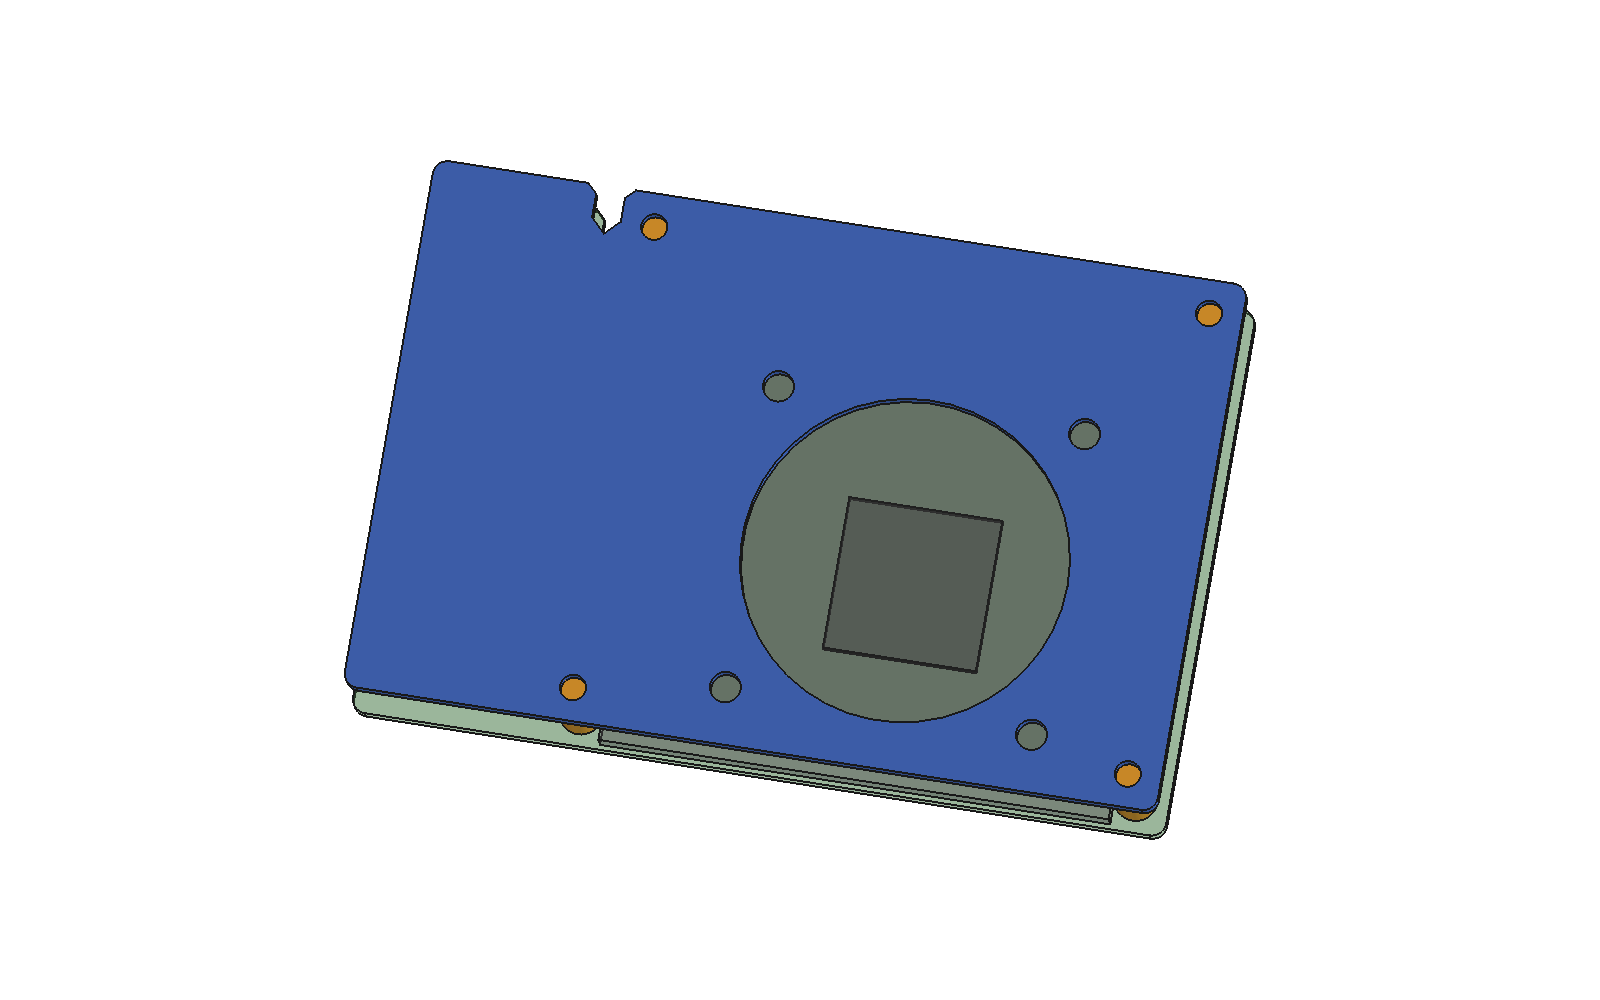
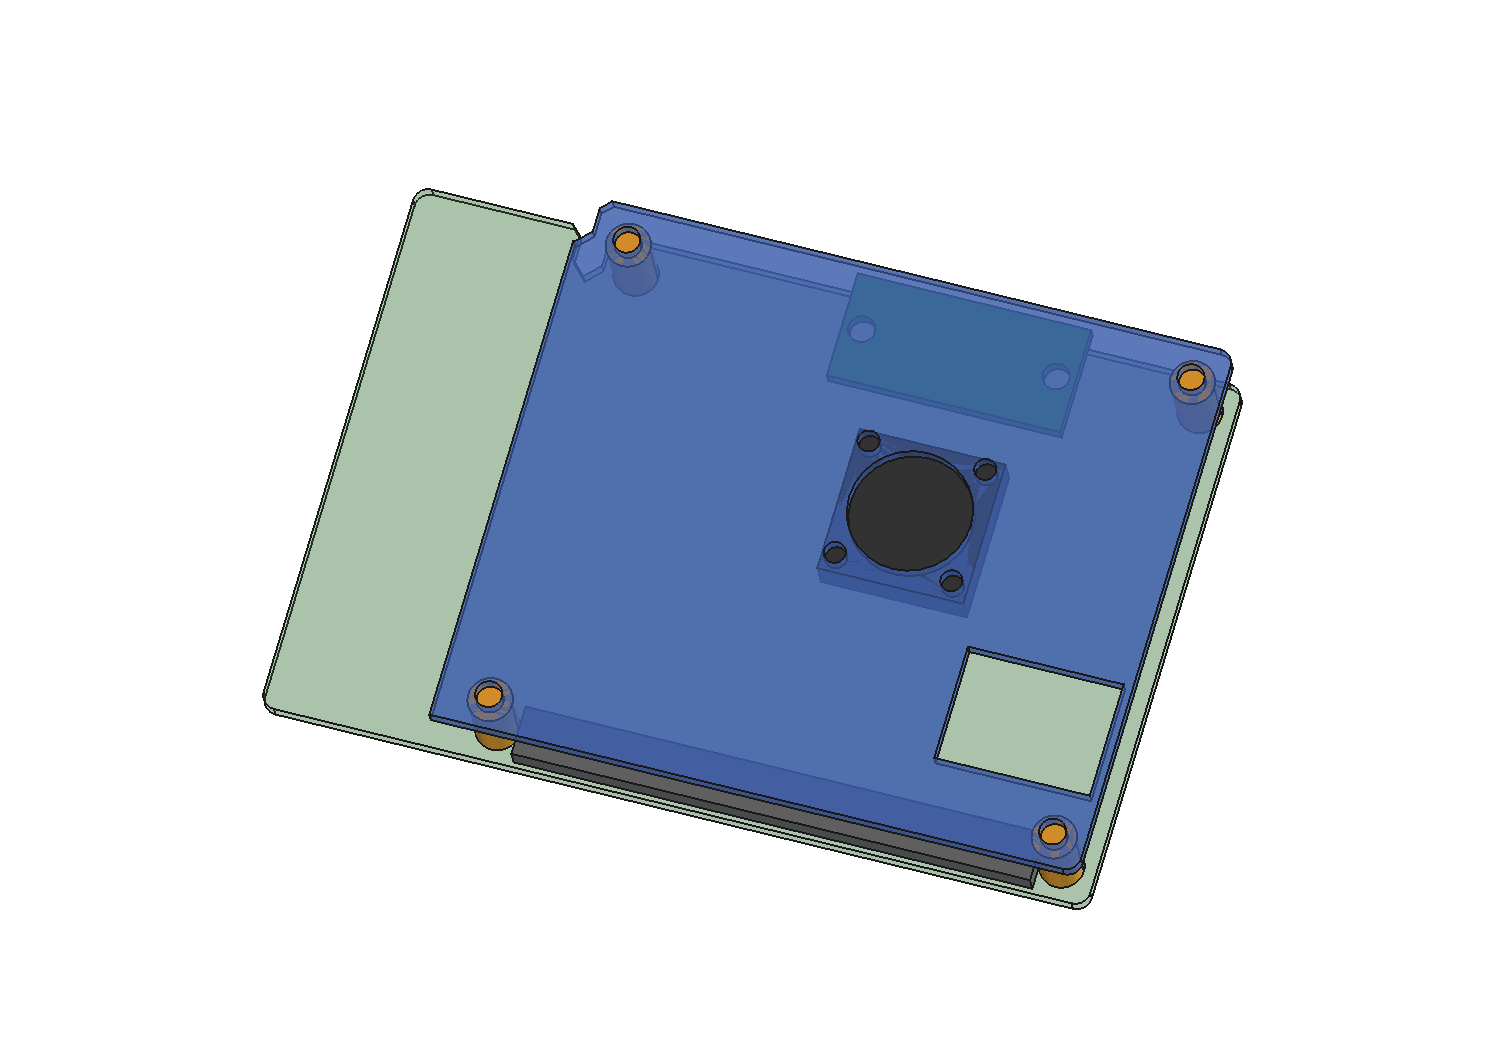
mechanical: fit the per-parameter plate/adapter against the official LubanCat-3 STEP
GAP=8.5, 15x15x4 fan at the measured RK3576 centre (58.5,32.2), plate left edge at the Ethernet (x=18.4), placeholder power keep-out and B2B adapter. Boolean clash check against all 577 STEP parts: 0 collisions.

Changed region(s): [[0.1533, 0.155, 0.828, 0.868]]

diff --git a/mechanical/lbc3_hat/model.py b/mechanical/lbc3_hat/model.py
@@ -1,21 +1,26 @@
 """Parametric mechanical model for the LubanCat-3 40-pin add-on ("top plate").
 
-Coordinate system (board frame, millimetres):
-  origin  = LBC3 PCB bottom-left corner, viewed from the TOP (unit is the DXF
-            board frame; x grows right, y grows "up" the board away from the
-            40-pin header edge)
-  z = 0   = LBC3 PCB TOP surface (components live above); the PCB occupies
-            z = -BOARD_T .. 0.
+Two coordinate frames are used:
 
-Ground truth for BOARD_L/W, corner radius, mount holes, the 40-pin header span
-and the SoC position comes from the vendor files:
-  * LubanCat3_DXF_BOT.dxf          (BG_OUTLINE + PIN_BOTTOM layers)
-  * LubanCat3_PCB尺寸图_.pdf        (R1.5X4, 85 x 56)
+* **board frame** (what you edit below), millimetres:
+    origin = LBC3 PCB bottom-left corner viewed from the TOP
+    x = along the long edge (0 .. 85), y = away from the 40-pin edge (0 .. 56)
+    z = height above the PCB top surface (PCB occupies z = -1.6 .. 0)
 
-Every value marked  # TBC  is a placeholder that still needs a measurement from
-the real board / schematic before manufacturing.
+* **STEP frame** (the vendor `Lubancat3_3D_Model.STEP`), millimetres:
+    the board plane is X-Z, the board normal is Y
+    PCB top surface is y = 0, bottom y = -1.6
+    mapping:  step = (board_x, board_z, -board_y)
 
-Run inside FreeCAD (GUI or freecadcmd):  exec(open(__file__).read())
+Ground truth from the vendor files (`LubanCat3(EBF410513V2R0_20260521)/`):
+  DXF结构图  -> outline 85x56, R1.5x4, 40-pin span x 28.52..76.78, rows y 1.78/4.32,
+                mount holes Dia2.6 at (23.5,3.5)(23.5,52.5)(81.5,3.5)(81.5,52.5)
+  3D模型     -> RK3576 centre board (58.5, 32.2); 40-pin pin tips at +8.54 above PCB
+                Ethernet HR911130A occupies board x -3.0 .. 18.4
+
+Values marked  # TBC  still need a decision.
+
+Run inside FreeCAD:  exec(open(__file__).read()); build()
 """
 
 import FreeCAD as App
@@ -23,56 +28,49 @@ import Part
 from FreeCAD import Vector
 
 # --------------------------------------------------------------------------
-# Parameters (mm) -- edit here, the model is regenerated from these.
+# Parameters (mm), board frame
 # --------------------------------------------------------------------------
-BOARD_L = 85.0          # board length  (X)  [vendor: 85]
-BOARD_W = 56.0          # board width   (Y)  [vendor: 56]
-BOARD_T = 1.6           # PCB thickness      [TBC: verify, 1.6 typical]
-CORNER_R = 1.5          # board corner fillet [vendor: R1.5X4]
+BOARD_L, BOARD_W, BOARD_T, CORNER_R = 85.0, 56.0, 1.6, 1.5
 
-# 40-pin male header on the LBC3 (from DXF PIN_BOTTOM grid)
-HDR_X0 = 28.52          # x of column 0 (pin 39/40 side)
-HDR_PITCH = 2.54
-HDR_COLS = 20
+HDR_X0, HDR_PITCH, HDR_COLS = 28.52, 2.54, 20
 HDR_ROWS_Y = (1.78, 4.32)
-HDR_BODY_PAD = 1.27     # body plastic overhangs 1.27 beyond the end pins
+HDR_BODY_PAD = 1.27
 
-# Board mount holes (DXF r=1.3 -> Dia 2.6 -> M2.5 clearance)
 MOUNT_HOLES = [(23.5, 3.5), (81.5, 3.5), (23.5, 52.5), (81.5, 52.5)]
 MOUNT_HOLE_D = 2.6
 
-# Top plate
 PLATE_T = 1.6
-GAP = 11.0              # LBC3 top surface -> plate bottom. # TBC (= 40-pin
-                        #   mated height; must also fit the fan below)
-M25_CLEAR_D = 2.7       # M2.5 clearance in the plate
-M25_HEAD_D = 4.7        # M2.5 socket/lens head recess  # TBC
+GAP = 8.5                 # PCB top -> plate bottom (= 40-pin mated height)
+M25_CLEAR_D = 2.7
 
-# Fan (mounted to the underside of the plate, above the SoC)   -- all TBC
-FAN_U = 40.0            # fan size (square)
-FAN_THK = 10.0
-FAN_SCREW_SPAN = 32.0   # hole centre spacing
-FAN_SCREW_D = 3.2       # M3 screws into the fan
-FAN_OPEN_D = 34.0       # opening in the plate
-FAN_CX = 55.0           # centre  # TBC (SoC position)
-FAN_CY = 22.0
+# Plate footprint: cut away the left edge so the Ethernet stays reachable.
+PLATE_X_MIN = 18.4        # right edge of the HR911130A jack
+# Power-input (24V -> 5V) keep-out on the right.   # TBC: real module footprint
+POWER_OPEN = (68.0, 8.0, 84.0, 20.0)
 
-# Camera B2B -> FPC30 adapter board that we want to pin down  -- all TBC
-B2B_CX, B2B_CY = 38.0, 51.0
-B2B_L, B2B_W, B2B_H = 20.0, 8.0, 3.0
+# Fan: 15 x 15 x 4 mm, mounted under the plate above the SoC.
+FAN_U, FAN_THK = 15.0, 4.0
+FAN_SCREW_SPAN, FAN_SCREW_D = 12.0, 2.2
+FAN_OPEN_D = 12.5
+FAN_CX, FAN_CY = 58.5, 32.2      # RK3576 centre, measured from the STEP
 
-# Notch in the LBC3 top edge (from DXF BG_OUTLINE), as a closed polygon
+# Camera B2B -> FPC30 adapter board we want to pin down.   # TBC: verify location
+ADAPTER_L, ADAPTER_W, ADAPTER_T = 24.0, 11.0, 1.6
+ADAPTER_CX, ADAPTER_CY = 57.0, 52.0
+ADAPTER_HOLE_SPAN_X = 20.0
+ADAPTER_HOLE_D = 2.7             # M2.5 screws
+
 NOTCH = [(16.0, 56.0), (17.0, 55.0), (17.0, 52.5), (18.5, 51.0),
          (20.0, 52.5), (20.0, 55.0), (21.0, 56.0), (21.0, 57.5), (16.0, 57.5)]
 
-COL_BOARD = (0.20, 0.45, 0.20)
-COL_PLATE = (0.20, 0.35, 0.70)
-COL_STAND = (0.85, 0.55, 0.10)
-COL_HDR = (0.35, 0.35, 0.35)
-COL_FAN = (0.15, 0.15, 0.15)
-COL_B2B = (0.10, 0.60, 0.10)
+COL_BOARD, COL_PLATE = (0.20, 0.45, 0.20), (0.20, 0.35, 0.70)
+COL_STAND, COL_HDR = (0.85, 0.55, 0.10), (0.35, 0.35, 0.35)
+COL_FAN, COL_ADAPTER = (0.15, 0.15, 0.15), (0.10, 0.60, 0.10)
 
 
+# --------------------------------------------------------------------------
+# helpers (board frame)
+# --------------------------------------------------------------------------
 def rounded_box(length, width, height, z0):
     s = Part.makeBox(length, width, height, Vector(0, 0, z0))
     vert = [e for e in s.Edges
@@ -81,70 +79,103 @@ def rounded_box(length, width, height, z0):
     return s.makeFillet(CORNER_R, vert)
 
 
+def box_between(x0, y0, z0, x1, y1, z1):
+    return Part.makeBox(x1 - x0, y1 - y0, z1 - z0, Vector(x0, y0, z0))
+
+
 def poly_prism(points, z0, height):
     wire = Part.makePolygon([Vector(x, y, z0) for x, y in points])
     return Part.Face(wire).extrude(Vector(0, 0, height))
 
 
-def show(shape, name, color):
-    obj = Part.show(shape, name)
+def cyl(x, y, z0, d, h):
+    return Part.makeCylinder(d / 2, h, Vector(x, y, z0))
+
+
+# --------------------------------------------------------------------------
+# solids (board frame)
+# --------------------------------------------------------------------------
+def build_plate():
+    s = rounded_box(BOARD_L, BOARD_W, PLATE_T, GAP)
+    s = s.cut(box_between(-4, -4, GAP - 2, PLATE_X_MIN, 60, GAP + PLATE_T + 2))
+    s = s.cut(poly_prism(NOTCH, GAP - 1, PLATE_T + 2))
+    for x, y in MOUNT_HOLES:
+        s = s.cut(cyl(x, y, GAP - 2, M25_CLEAR_D, PLATE_T + 4))
+    s = s.cut(cyl(FAN_CX, FAN_CY, GAP - 2, FAN_OPEN_D, PLATE_T + 4))
+    for sx in (-1, 1):
+        for sy in (-1, 1):
+            s = s.cut(cyl(FAN_CX + sx * FAN_SCREW_SPAN / 2,
+                          FAN_CY + sy * FAN_SCREW_SPAN / 2,
+                          GAP - 2, FAN_SCREW_D, PLATE_T + 4))
+    x0, y0, x1, y1 = POWER_OPEN
+    s = s.cut(box_between(x0, y0, GAP - 2, x1, y1, GAP + PLATE_T + 2))
+    return s
+
+
+def build_adapter():
+    s = Part.makeBox(ADAPTER_L, ADAPTER_W, ADAPTER_T,
+                     Vector(ADAPTER_CX - ADAPTER_L / 2, ADAPTER_CY - ADAPTER_W / 2, 0))
+    for sx in (-1, 1):
+        s = s.cut(cyl(ADAPTER_CX + sx * ADAPTER_HOLE_SPAN_X / 2, ADAPTER_CY, -1,
+                      ADAPTER_HOLE_D, ADAPTER_T + 2))
+    return s
+
+
+def build_standoffs():
+    return [cyl(x, y, 0, M25_CLEAR_D + 1.8, GAP) for x, y in MOUNT_HOLES]
+
+
+# --------------------------------------------------------------------------
+# frame conversion
+# --------------------------------------------------------------------------
+def to_step(shape):
+    """(board_x, board_y, board_z) -> (board_x, board_z, -board_y)."""
+    m = App.Matrix()
+    m.A11, m.A12, m.A13 = 1, 0, 0
+    m.A21, m.A22, m.A23 = 0, 0, 1
+    m.A31, m.A32, m.A33 = 0, -1, 0
+    return shape.transformGeometry(m)
+
+
+def show(shape, name, color, doc=None, transparency=0):
+    doc = doc or App.ActiveDocument
+    obj = doc.addObject("Part::Feature", name)
+    obj.Shape = shape
     obj.ViewObject.ShapeColor = color
-    obj.ViewObject.Transparency = 70 if name.startswith("REF") else 0
+    obj.ViewObject.Transparency = transparency
     return obj
 
 
-def build():
-    doc = App.newDocument("lbc3_hat")
-
-    # ---- reference: LBC3 board -------------------------------------------
+def build(doc_name="lbc3_hat"):
+    """Standalone board-frame document (reference + plate + adapter)."""
+    doc = App.newDocument(doc_name)
     board = rounded_box(BOARD_L, BOARD_W, BOARD_T, -BOARD_T)
     board = board.cut(poly_prism(NOTCH, -BOARD_T - 1, BOARD_T + 2))
     for x, y in MOUNT_HOLES:
-        board = board.cut(Part.makeCylinder(MOUNT_HOLE_D / 2, BOARD_T + 4,
-                                            Vector(x, y, -BOARD_T - 2)))
-    show(board, "REF_LBC3_board", COL_BOARD)
+        board = board.cut(cyl(x, y, -BOARD_T - 2, MOUNT_HOLE_D, BOARD_T + 4))
+    show(board, "REF_lbc3_board", COL_BOARD, doc, 75)
 
-    # ---- reference: 40-pin male header on the LBC3 -----------------------
-    body = Part.makeBox(HDR_COLS * HDR_PITCH + 2 * HDR_BODY_PAD, 5.08, 2.5,
-                        Vector(HDR_X0 - HDR_PITCH / 2 - HDR_BODY_PAD,
-                               HDR_ROWS_Y[0] - 1.27, 0.0))
-    show(body, "REF_header40_male", COL_HDR)
-
-    # ---- reference: SoC + fan envelope -----------------------------------
-    soc = Part.makeBox(16, 16, 1.0, Vector(FAN_CX - 8, FAN_CY - 8, 0.0))
-    show(soc, "REF_soc", COL_HDR)
+    hdr = Part.makeBox(HDR_COLS * HDR_PITCH + 2 * HDR_BODY_PAD, 5.08, 2.5,
+                       Vector(HDR_X0 - HDR_PITCH / 2 - HDR_BODY_PAD, HDR_ROWS_Y[0] - 1.27, 0))
+    show(hdr, "REF_header40_male", COL_HDR, doc)
     fan = Part.makeBox(FAN_U, FAN_U, FAN_THK,
-                       Vector(FAN_CX - FAN_U / 2, FAN_CY - FAN_U / 2,
-                              GAP - FAN_THK))
-    show(fan, "REF_fan", COL_FAN)
+                       Vector(FAN_CX - FAN_U / 2, FAN_CY - FAN_U / 2, GAP - FAN_THK))
+    show(fan, "REF_fan15", COL_FAN, doc)
 
-    # ---- reference: camera B2B -> FPC30 adapter --------------------------
-    b2b = Part.makeBox(B2B_L, B2B_W, B2B_H,
-                       Vector(B2B_CX - B2B_L / 2, B2B_CY - B2B_W / 2, 0.0))
-    show(b2b, "REF_b2b_adapter", COL_B2B)
+    show(build_plate(), "TOP_plate", COL_PLATE, doc, 40)
+    show(build_adapter(), "B2B_adapter", COL_ADAPTER, doc)
+    for i, st in enumerate(build_standoffs()):
+        show(st, "STANDOFF_%d" % (i + 1), COL_STAND, doc)
+    doc.recompute()
+    return doc
 
-    # ---- top plate -------------------------------------------------------
-    plate = rounded_box(BOARD_L, BOARD_W, PLATE_T, GAP)
-    plate = plate.cut(poly_prism(NOTCH, GAP - 1, PLATE_T + 2))
-    for x, y in MOUNT_HOLES:                      # M2.5 fixing holes
-        plate = plate.cut(Part.makeCylinder(M25_CLEAR_D / 2, PLATE_T + 4,
-                                            Vector(x, y, GAP - 2)))
-    # fan opening + fan screws
-    plate = plate.cut(Part.makeCylinder(FAN_OPEN_D / 2, PLATE_T + 4,
-                                        Vector(FAN_CX, FAN_CY, GAP - 2)))
-    for sx in (-1, 1):
-        for sy in (-1, 1):
-            plate = plate.cut(Part.makeCylinder(
-                FAN_SCREW_D / 2, PLATE_T + 4,
-                Vector(FAN_CX + sx * FAN_SCREW_SPAN / 2,
-                       FAN_CY + sy * FAN_SCREW_SPAN / 2, GAP - 2)))
-    show(plate, "TOP_plate", COL_PLATE)
 
-    # ---- copper/nylon standoffs at the 4 board mount holes ---------------
-    for i, (x, y) in enumerate(MOUNT_HOLES):
-        st = Part.makeCylinder(M25_CLEAR_D / 2 + 0.9, GAP, Vector(x, y, 0.0))
-        show(st, "STANDOFF_%d" % (i + 1), COL_STAND)
-
+def fit_into_step(doc):
+    """Add the plate / adapter / standoffs to an open STEP document."""
+    show(to_step(build_plate()), "TOP_plate", COL_PLATE, doc, 40)
+    show(to_step(build_adapter()), "B2B_adapter", COL_ADAPTER, doc)
+    for i, st in enumerate(build_standoffs()):
+        show(to_step(st), "STANDOFF_%d" % (i + 1), COL_STAND, doc)
     doc.recompute()
     return doc
 

diff --git a/mechanical/README.md b/mechanical/README.md
@@ -61,6 +61,27 @@ build()
 | 顶板覆盖范围 | 整板 85×56 | 是否要避开边缘连接器，或加大开孔/缺口 |
 | 固定孔 | 上述 4 点 | 实物复核 + 顶板过孔取 Ø2.7~3.0 |
 
+## 与官方 STEP 的装配检视
+
+官方 `3D模型/Lubancat3_3D_Model.STEP`（577 零件）已导入。STEP 坐标系：
+**板平面 X–Z、法线 Y**，PCB 上表面 y=0、下表面 y=−1.6；映射 `step=(板x, 板高, −板y)`。
+
+实测（来自 STEP）：
+
+| 项目 | 值（板框坐标） |
+|---|---|
+| RK3576 SoC 中心 | (58.5, 32.2) |
+| 40pin 公针尖高度 | +8.54（即 GAP=8.5 对插） |
+| 网口 HR911130A 占位 | x −3.0 … 18.4（左边缘） |
+
+- 顶板按 GAP=8.5 放置后，与板上**所有零件做布尔求交：0 碰撞**。
+- 高度校核：8.5(GAP) − 4(风扇) = 4.5mm 给散热片/间隙，与"铝鳍片 ~3mm"吻合。
+
+### 仍需确认（见下）
+
+- 摄像头 B2B 转接板的**准确连接器位置**（当前占位在板 (57,52)）。
+- 电源入口（24V→5V）的**实际外形/位置**（当前开孔占位 x68–84 / y8–20）。
+
 ## 待办
 
 - [ ] 复核 4 颗固定孔位置与板厚（卡尺）。
